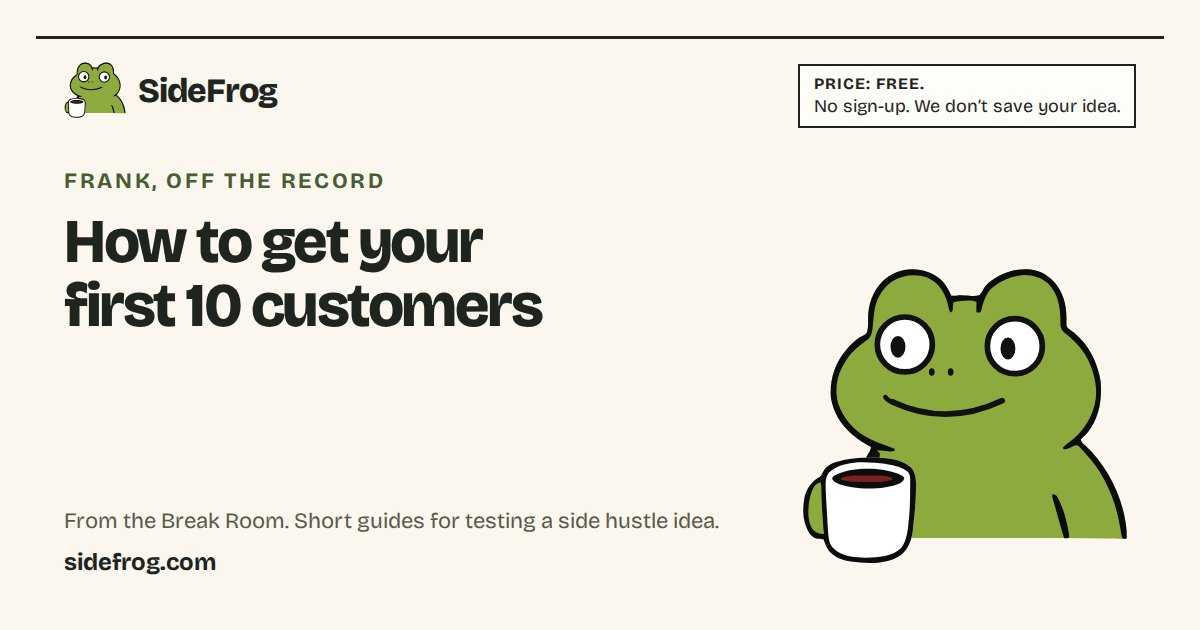
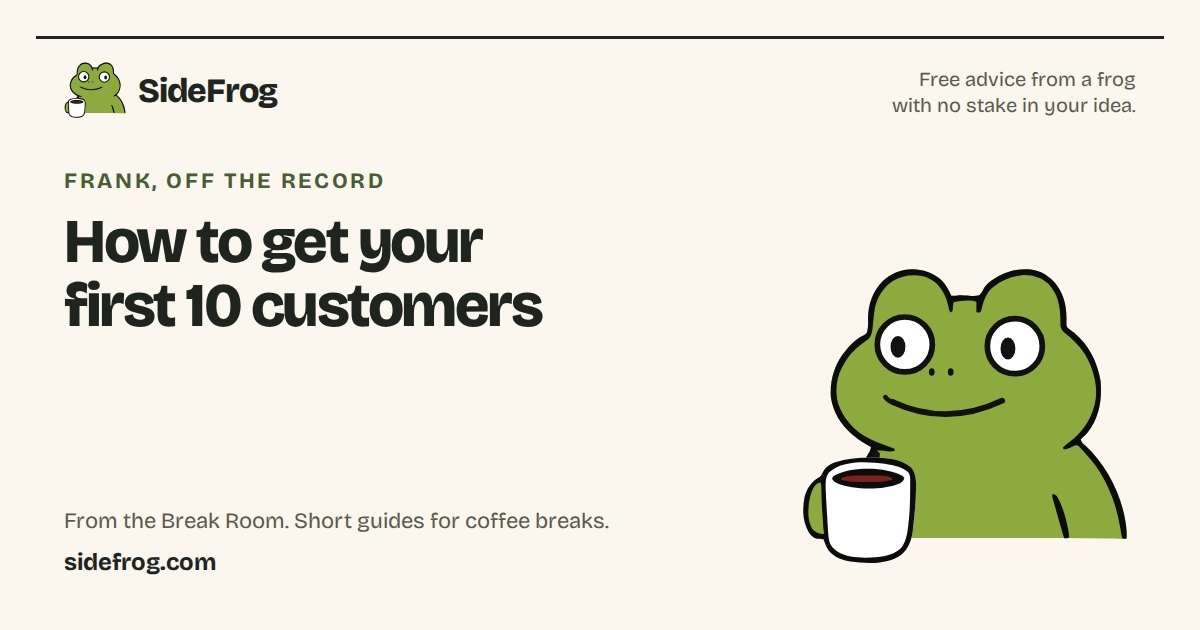
og fix

Changed region(s): [[0.6783, 0.0905, 0.9558, 0.2111], [0.37, 0.8143, 0.6167, 0.8444]]

diff --git a/make_og.py b/make_og.py
@@ -40,8 +40,7 @@ body {{ background: {PAPER}; color: {INK}; font-family: "Bricolage Grotesque", s
 .frame {{ position: absolute; inset: 36px; border-top: 3px solid {INK}; }}
 .brand {{ position: absolute; left: 64px; top: 62px; display: flex; align-items: center; gap: 12px; font-weight: 800; font-size: 34px; letter-spacing: -0.03em; }}
 .brand svg {{ width: 62px; }}
-.price {{ position: absolute; right: 64px; top: 64px; border: 2px solid {INK}; background: {CARD}; padding: 8px 14px; font-size: 18px; line-height: 1.3; }}
-.price b {{ display: block; letter-spacing: 0.06em; font-size: 16px; }}
+.tagline {{ position: absolute; right: 64px; top: 66px; text-align: right; font-size: 20px; line-height: 1.3; color: #5A5A4A; }}
 .url {{ position: absolute; left: 64px; bottom: 54px; font-size: 24px; font-weight: 700; color: {INK}; }}
 """
 
@@ -59,7 +58,7 @@ h1 {{ position: absolute; left: 64px; top: 150px; width: 560px; font-size: 64px;
 </style></head><body>
 <div class="frame"></div>
 <div class="brand">{frank()}SideFrog</div>
-<div class="price"><b>PRICE: FREE.</b>No sign-up. We don’t save your idea.</div>
+<div class="tagline">Free advice from a frog<br>with no stake in your idea.</div>
 <h1>Thinking about making the leap from your 9-to-5?</h1>
 <p class="lede">Type a side hustle idea. Get a straight verdict in about ten seconds.</p>
 <div class="card">{frank("nah", "left")}
@@ -72,7 +71,21 @@ h1 {{ position: absolute; left: 64px; top: 150px; width: 560px; font-size: 64px;
 
 
 def page_card(p):
-    label = p.get("take_label", "A note from Frank") if p.get("take") else ("The Break Room" if p["path"] != "/about/" else "Made by Mark")
+    path = p["path"]
+    if p.get("take"):
+        label = p.get("take_label", "A note from Frank")
+    elif path.startswith("/side-kit/"):
+        label = "The Side Kit"
+    elif path == "/about/":
+        label = "Made by Mark"
+    else:
+        label = "The Break Room"
+    if path.startswith("/break-room/"):
+        where = "From the Break Room. Short guides for coffee breaks."
+    elif path.startswith("/side-kit/"):
+        where = "From the Side Kit. Prompts and a printable worksheet."
+    else:
+        where = "Made by Mark Flournoy. Free, no sign-up."
     title = html.escape(p["h1"])
     size = 74 if len(p["h1"]) <= 28 else 62 if len(p["h1"]) <= 44 else 54
     return f"""<!doctype html><html><head><link href="{FONT_URL}" rel="stylesheet"><style>{BASE_CSS}
@@ -83,10 +96,10 @@ h1 {{ position: absolute; left: 64px; top: 210px; width: 720px; font-size: {size
 </style></head><body>
 <div class="frame"></div>
 <div class="brand">{frank()}SideFrog</div>
-<div class="price"><b>PRICE: FREE.</b>No sign-up. We don’t save your idea.</div>
+<div class="tagline">Free advice from a frog<br>with no stake in your idea.</div>
 <p class="label">{html.escape(label)}</p>
 <h1>{title}</h1>
-<p class="where">From the Break Room. Short guides for testing a side hustle idea.</p>
+<p class="where">{html.escape(where)}</p>
 <div class="big">{frank("smirk", "left")}</div>
 <div class="url">sidefrog.com</div>
 </body></html>"""

diff --git a/README.md b/README.md
@@ -177,7 +177,7 @@ The taco-truck reader is served by: "taco truck empire" leading the rotating exa
 
 ## Sharing, icons and analytics
 
-**Share cards (`og/`):** 1200x630 JPGs (50 to 76KB each), one for the home page and one per Break Room page, wired with Open Graph and `twitter:card` tags (absolute URLs on `https://sidefrog.com`, which social sites require). The home card shows the question and a real answer card (FROM: Frank, RE: meal prep for pet turtles, KEEP YOUR DAY JOB); each guide card shows its title under that guide's Frank line. They're rendered from HTML with the site's own font, colours and Frank by `make_og.py`. Rerun it after changing a page title (`pip install playwright`, `python3 -m playwright install chromium`, `python3 make_og.py`), then `python3 make_pages.py`. After launch, check a link in LinkedIn's Post Inspector and Facebook's Sharing Debugger; both cache cards, and those tools refresh them.
+**Share cards (`og/`):** 1200x630 JPGs with the tagline "Free advice from a frog with no stake in your idea" in the top corner (it replaced the retired price box), a label (the page's Frank line, "The Side Kit" or "Made by Mark") and a footer line that fits the kind of page; (50 to 76KB each), one for the home page and one per Break Room page, wired with Open Graph and `twitter:card` tags (absolute URLs on `https://sidefrog.com`, which social sites require). The home card shows the question and a real answer card (FROM: Frank, RE: meal prep for pet turtles, KEEP YOUR DAY JOB); each guide card shows its title under that guide's Frank line. They're rendered from HTML with the site's own font, colours and Frank by `make_og.py`. Rerun it after changing a page title (`pip install playwright`, `python3 -m playwright install chromium`, `python3 make_og.py`), then `python3 make_pages.py`. After launch, check a link in LinkedIn's Post Inspector and Facebook's Sharing Debugger; both cache cards, and those tools refresh them.
 
 **Icons:** `apple-touch-icon.png` (180, on cream, since iOS fills transparency with black), `favicon-16.png`, `favicon-32.png`, `favicon.ico` (16/32/48) and `frogs/favicon.svg` use a tight crop on Frank's face so he reads at tab size; `icon-192.png`, `icon-512.png` and `icon-maskable-512.png` (Frank inside the safe zone so Android can crop to any shape) are listed in `site.webmanifest`.
 
